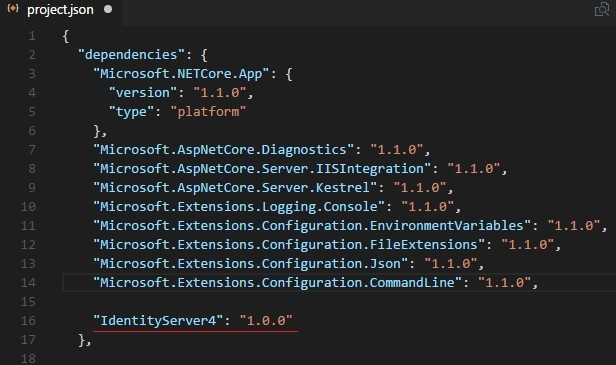
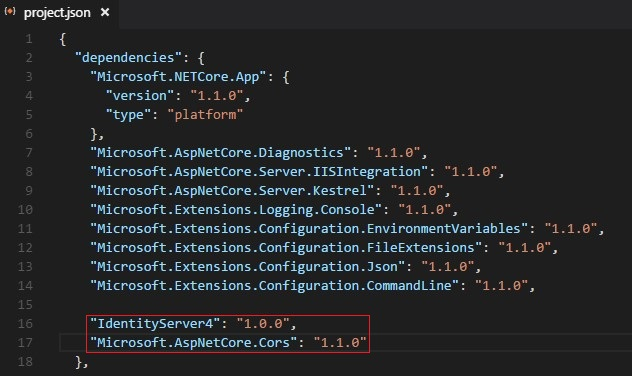
added cloudflare ssl

diff --git a/_includes/archive-single.html b/_includes/archive-single.html
@@ -33,6 +33,6 @@
     {% if post.read_time %}
       <p class="page__meta"><i class="fa fa-clock-o" aria-hidden="true"></i> {% include read-time.html %}</p>
     {% endif %}
-    {% if post.excerpt %}<p class="archive__item-excerpt" itemprop="description">{{ post.excerpt | markdownify | strip_html | truncate: 300 }}</p>{% endif %}
+    {% if post.excerpt %}<p class="archive__item-excerpt" itemprop="description">{{ post.excerpt | markdownify | strip_html | truncate: 400 }}</p>{% endif %}
   </article>
 </div>

diff --git a/_drafts/OAuth2-ROPC-autentication-with-Angular2 .md b/_drafts/OAuth2-ROPC-autentication-with-Angular2 .md
@@ -1,20 +1,23 @@
 ---
 tags: [Angular2, ROPC, OAUTH2, IdentityServer4, ASP.NET Core, TypeScript]
-title: OAuth2 ROPC Flow Authorization with Angular 2 
+title: OAuth2 Authentication with Angular 2 (ROPC Flow)
 ---
 
-This post will cover the topic of authenticating an Angular 2 client using the ROPC flow, managing the token
+This post will cover the topic of authenticating an Angular 2 client using the ROPC flow, managing the tokens (bearer and refresh token)
 and in brief how to setup IdentityServer4 for ROPC.
-We will also create a simple API using ASP.NET Core MVC 6.
+We will also create a simple API using ASP.NET Core MVC 6 to test out the tokens.
 <!--more-->
-Some basics first, what is ROPC?
+
+I will assume you already have some basic knowledge of Angular and TypeScript.
+
+Some basics first, what is ROPC authentication flow?
 
 > The OAuth 2.0 resource owner password grant allows a client to send username and password
 > to the token service and get an access token back that represents that user.
 
 ROPC flow should only be used for "trusted" clients,
 what that means is that the app sending the username and password to the AUTH server should be
-ideally written by you or a trusted 3rd party.
+written by you (ideally) or a trusted 3rd party.
 The reason being is that it will have the responsibility of transfering the users credentials securely
 and not exploit them.
 
@@ -42,15 +45,13 @@ A simple diagram showing ROPC flow.
 
 The creators of IdentityServer recomend that ROPC should not be used, and instead advice the use
 of "Implicit Flow" but that one involves an extra step of redirecting the user which i wanted to avoid
-for my app for UX purposes and also i am the creator of both the API and the client Angular 2 app.
+for my app for UX purposes and also i will create both the API and the client app.
 
-So let's get started with the IdentityServer.
+Before we start, make sure you have **Node** and **.Net Core** installed.
 
 ## Identity Server Setup
 
-Make sure you have **Node** installed and also **.Net Core**.
-
-First we will need to install some NPM packages from the terminal, like Yeoman to create our .net core project.
+First we will need to install some NPM packages from the terminal, like Yeoman to create our .net core projects.
 
  1. Install Yeoman and Bower globally : `npm install -g yo bower`
  2. Install the Asp.net generator for Yeoman : `npm install -g generator-aspnet`
@@ -74,27 +75,40 @@ Choose "Empty Web Application", next name the project "AuthServer"
 
 ![image-center]({{ site.url }}{{ site.baseurl }}/assets/images/posts/OAuth2-ROPC-autentication-with-Angular2/yoAspNet.jpg){: .align-center}
 
-Go to "AuthServer" folder and restore the needed .net core packages, then run the web app.
+Go to "AuthServer" folder and restore the needed .net core packages.
 
 ```
 cd AuthServer
 dotnet restore
-dotnet run
 ```
 
-Next, we add the IdentityServer4 nuget package by adding the following line to the project.json file in the "dependencies" property: `"IdentityServer4": "1.0.0"`
+Next, we add the IdentityServer4 nuget package by adding the following line to the project.json file in the "dependencies" property: `"IdentityServer4": "1.0.0"`.
+
+We should add one more package to Allow CORS since we will be calling the IdentityServer from a different port, add also `"Microsoft.AspNetCore.Cors": "1.1.0"`
+
+Your "project.json" file should look similar to the image below.
 
 ![image-center]({{ site.url }}{{ site.baseurl }}/assets/images/posts/OAuth2-ROPC-autentication-with-Angular2/dep.jpg){: .align-center}
 
-Run `dotnet restore` to fetch the IdentityServer4 package.
+Run `dotnet restore` to fetch the packages.
 
 Let's now add the IdentityServer services to ASP.NET core HTTP pipeline, go to `Startup.cs`,
-the `ConfigureServices` anf `Configure`  methods should like the code below.
+edit the `ConfigureServices` and `Configure` methods so they look like the code below.
 
 
 ``` csharp
 public void ConfigureServices(IServiceCollection services)
 {
+    services.AddCors(options=>
+    {
+        // this defines a CORS policy called "default"
+        options.AddPolicy("default", policy => {
+            policy.WithOrigins("http://localhost:5002")
+                .AllowAnyHeader()
+                .AllowAnyMethod();
+        });
+    });
+
    services.AddIdentityServer()
             .AddTemporarySigningCredential();
 }
@@ -103,6 +117,9 @@ public void Configure(IApplicationBuilder app, IHostingEnvironment env, ILoggerF
 {
     loggerFactory.AddConsole(LogLevel.Debug);
     app.UseDeveloperExceptionPage();
+
+    // this uses the policy called "default"
+    app.UseCors("default");
 
     app.UseIdentityServer();
 }
@@ -121,7 +138,8 @@ Next thing to do is configure/add client app settings and a resource owner aka t
 
 ### Adding Users to IdentityServer4
 
-We will use the `TestUser` class provided by IdentityServer and store it in-memory, ideal for the purposes of this blog post,
+We will use the `TestUser` class provided by IdentityServer and store the user information in-memory,
+ideal for the purposes of this blog post,
 for production though you should store users information securely in a DataBase.
 
 I would recommend you use "ASP.NET Identity",
@@ -146,7 +164,7 @@ namespace AuthServer
                 {
                     SubjectId = "1",
                     Username = "boban",
-                    Password = "p@ssword"
+                    Password = "pass"
                 }
             };
         }
@@ -167,10 +185,11 @@ public static IEnumerable<ApiResource> GetApiResources()
 }
 ```
 
-We are missing the Client so let's add another method that returns a list of Clients.
+We have the user and the API defined, the Client is missing, so let's add another method that returns a list of Clients.
 
-The Client we will create will use the API we just added, so we will set the " AllowedScopes"
-property to "SecureAPI", this will restrict access to other APIs  we might have.
+The Client will use the API we just added, so we will set the "AllowedScopes"
+property to "SecureAPI", this will allow access to the named API, other APIs will not be accessible.
+You can play with the roles and scopes to fine-tune which user/client can access your API methods.
 
 ``` csharp
 // client want to access resources (aka scopes)
@@ -180,18 +199,19 @@ public static IEnumerable<Client> GetClients()
     return new List<Client>
     {
         // resource owner password grant client
-        new Client
-        {
-            ClientId = "ro.ng2Client",
+         new Client {
+            ClientId = "ng2Client",
             AllowedGrantTypes = GrantTypes.ResourceOwnerPassword,
             ClientSecrets = { new Secret("secret".Sha256()) },
-            AllowedScopes = { "SecureAPI" }
+            AllowOfflineAccess = true,
+            AllowedScopes = { "SecureAPI" },
+            AllowedCorsOrigins = { "http://localhost:5002" }
         }
     };
 }
 ```
 
-Now we need to tell IdentityServer about the Users, APIs and Clients, we do that in the "Startup.cs" file.
+Now we need to tell IdentityServer about the Users, APIs and Clients we created, to do that open the "Startup.cs" file.
 Let's revisit the "ConfigureServices" method.
 
 ``` csharp
@@ -209,13 +229,14 @@ public void ConfigureServices(IServiceCollection services)
 }
 ```
 
-That's it, we are done setting up IdentityServer, start the AuthServer, type in the terminal `dotnet run` and go to [http://localhost:5000/.well-known/openid-configuration](http://localhost:5000/.well-known/openid-configuration)
+That's it, we are done setting up IdentityServer, let's start it, run `dotnet run` in the terminal and go to [http://localhost:5000/.well-known/openid-configuration](http://localhost:5000/.well-known/openid-configuration)
 if you see the JSON (so-called discovery document) then all went fine.
 
 ![image-center]({{ site.url }}{{ site.baseurl }}/assets/images/posts/OAuth2-ROPC-autentication-with-Angular2/discoveryDocument.jpg){: .align-center}
 
 ## Creating the API
 
+With the IdentityServer all done, it's time to create a very simple API using ASP.NET Core MVC.
 Open the terminal and go to the "ROPCDemo" folder, again we will use Yeoman to scaffold our API project, run `yo aspnet`.
 
 Go down in the project options and select "Web API Application", name the project "API", after the project has been created
@@ -261,10 +282,10 @@ What will this middleware do:
 * validate the incoming token to make sure it is coming from a trusted issuer
 * validate that the token is valid to be used with this api (aka scope)
 
-Add the following package to your project.json: `"IdentityServer4.AccessTokenValidation": "1.0.1"` 
+Add the following package to your project.json: `"IdentityServer4.AccessTokenValidation": "1.0.1"`
 and run `dotnet restore`.
 
-After the packages has been downloaded, we can add it to the pipeline,
+After the packages have been downloaded, we can add it to the pipeline,
 open "Startup.cs" and add the IdentityServer middleware as shown below.
 
 ``` csharp
@@ -297,3 +318,31 @@ instead we got an error code "401 Unauthorized" (open the network tab on your br
 Yay the API is now secured.
 
 ## Creating the Angular Client
+
+With the API and the IdentityServer setup we can now focus on the Angular client.
+Most of the work here we will need to be done on managing the bearer token and the refresh token.
+As before we will use Yeoman to generate our Angular 2 project, we will be using the generator from ["Steve Sanders"](http://blog.stevensanderson.com/).
+
+Learn more about that [here](https://github.com/aspnet/JavaScriptServices).
+
+I am using this generator because i've already used it a couple of times and i really like what it brings to the table,
+feel free to use others such as Angular CLI or my preffered way ... create everything from scratch by hand.
+
+The generator will create an Angular 2 Client app with MVC and WebPack already setup.
+
+Fire up the terminal, let's install the generator first, run the following command: `npm install -g generator-aspnetcore-spa`.
+
+After it's installed, create a new folder called "ngxClient" in the "ROPCDemo" folder and
+navigate to it, then run `yo aspnetcore-spa` and select the "Angular 2" template.
+
+On my laptop the generator is finished in about a minute or two, so be patient.
+
+If everything went ok you should be able to run the project by using `dotnet run` in the "ngxClient" folder.
+
+![image-center]({{ site.url }}{{ site.baseurl }}/assets/images/posts/OAuth2-ROPC-autentication-with-Angular2/ngxClient1.jpg){: .align-center}
+
+I will use the home component to build the UI for sending the username/password to the IdentityServer.
+
+![image-center]({{ site.url }}{{ site.baseurl }}/assets/images/posts/OAuth2-ROPC-autentication-with-Angular2/home.jpg){: .align-center}
+
+First we will create the service for managing the tokens
